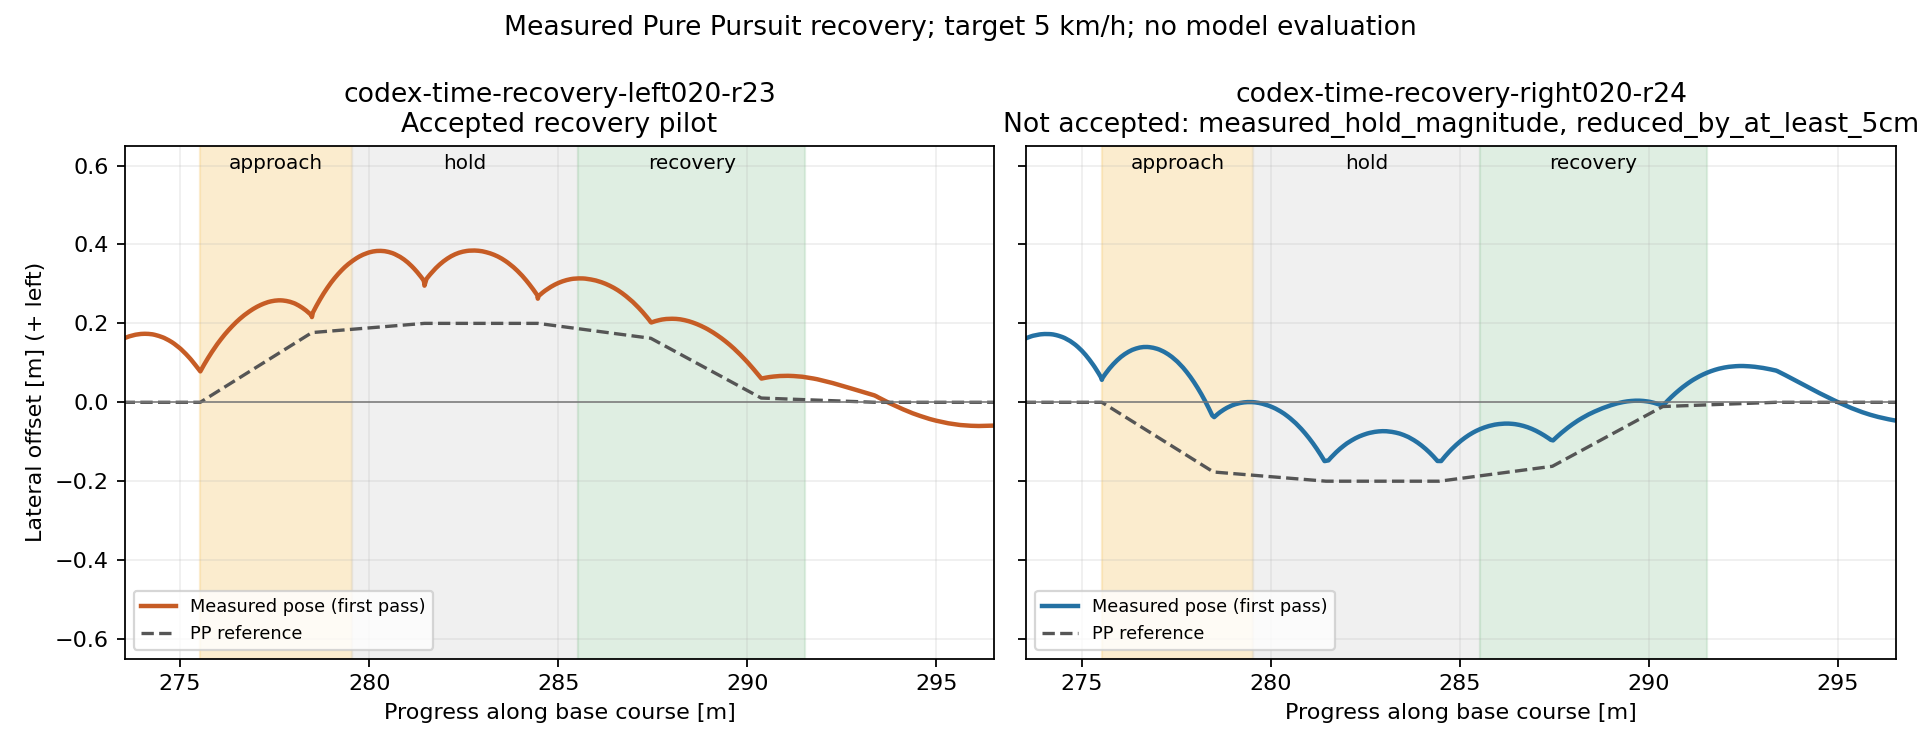
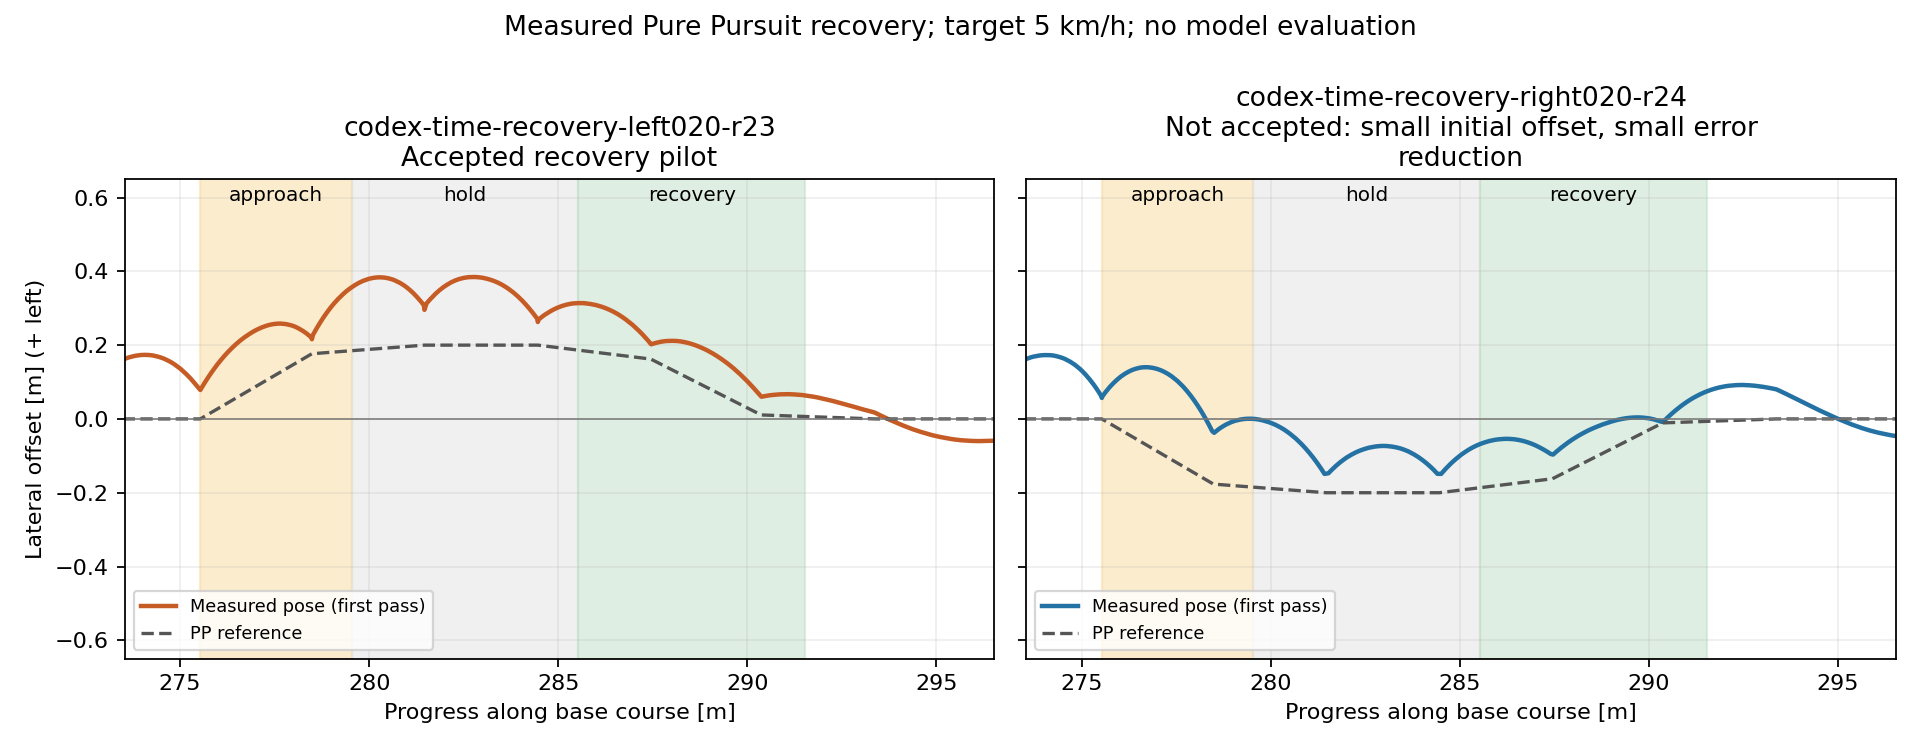
Distinguish curve perturbations from common baseline projection offsets

diff --git a/docs/evidence/time_recovery_batches_20260914/compare_curves_to_nominal.py b/docs/evidence/time_recovery_batches_20260914/compare_curves_to_nominal.py
@@ -1,0 +1,51 @@
+"""Post hoc curve comparison in native WSL; keeps the original pilot gates.
+
+All offsets and progress are in metres. This compares unique measured pose
+captures at common baseline progress and never extrapolates a nominal trace.
+"""
+import argparse
+from pathlib import Path
+import json,numpy as np,hashlib
+base=Path('/home/thistle/e2e_autonomous');a=base/'runs/time_recovery_batches_20260914'
+parser=argparse.ArgumentParser(description=__doc__)
+parser.add_argument('--pair',type=int,choices=(2,3),default=2)
+args=parser.parse_args()
+run_names=(('codex-time-recovery-left020-r23','codex-time-recovery-right020-r24') if args.pair==2 else
+           ('codex-time-recovery-left040-r25','codex-time-recovery-right040-r26'))
+output_name='curve020_nominal_comparison.json' if args.pair==2 else 'curve040_nominal_comparison.json'
+def trace(run: Path) -> tuple[dict, list[dict], np.ndarray, np.ndarray]:
+ manifest=json.loads((run/'transfer_manifest.json').read_text())
+ for name in ('reference.json','control.jsonl'):
+  content=(run/name).read_bytes()
+  assert len(content)==manifest[name]['bytes'] and hashlib.sha256(content).hexdigest()==manifest[name]['sha256']
+ ref=json.loads((run/'reference.json').read_text())
+ rows=[json.loads(l) for l in (run/'control.jsonl').read_text().splitlines()]
+ rows=[r for r in rows if r['reason']=='RECOVERY_TEACHER_TRACKING' and r['projection'] and 273.5330395126295<=r['projection']['s_m']<296.5330395126295]
+ s=np.asarray([r['projection']['s_m'] for r in rows]);v=np.asarray([r['projection']['offset_m'] for r in rows]);assert len(s)>100 and (np.diff(s)>=0).all()
+ stamps=np.asarray([r['current_pose']['stamp_ns'] for r in rows]);assert (np.diff(stamps)>=0).all()
+ for i in np.where(np.diff(stamps)==0)[0]:
+  assert v[i]==v[i+1] and rows[i]['current_pose']==rows[i+1]['current_pose']
+ _,keep=np.unique(stamps,return_index=True);rows=[rows[i] for i in keep];s=s[keep];v=v[keep]
+ return ref,rows,s,v
+nominal=[]
+for n in ('codex-time-recovery-right020-r19','codex-time-recovery-left020-r20'):
+ run=base/'raw/time_recovery_collection_20260913'/n
+ ref,rows,s,v=trace(run);assert all(r['phase']=='baseline' for r in rows) and (np.diff(s)>0).all()
+ nominal.append((n,ref,s,v))
+records=[]
+for n in run_names:
+ run=base/'raw/time_recovery_batches_20260914'/n
+ ref,rows,s,v=trace(run)
+ for _,old,_,_ in nominal:np.testing.assert_array_equal(ref['baseline_xy_m'],old['baseline_xy_m'])
+ by_phase={}
+ for phase in ('hold','recovery','after'):
+  mask=np.asarray([r['phase']==phase if phase!='after' else r['projection']['s_m']>=291.5330395126295 for r in rows])
+  mask &= (s>=max(x[2][0] for x in nominal)) & (s<=min(x[2][-1] for x in nominal))
+  ss=s[mask];vv=v[mask]
+  assert len(ss)>0 and all(old_s[0]<=ss.min() and ss.max()<=old_s[-1] for _,_,old_s,_ in nominal)
+  matched=np.mean([np.interp(ss,old_s,old_v) for _,_,old_s,old_v in nominal],axis=0)
+  delta=vv-matched
+  by_phase[phase]={'samples':len(ss),'matched_s_range_m':[float(ss.min()),float(ss.max())],'raw_offset_median_m':float(np.median(vv)),'nominal_matched_offset_median_m':float(np.median(matched)),'delta_from_nominal_median_m':float(np.median(delta)),'delta_from_nominal_max_absolute_m':float(np.abs(delta).max())}
+ records.append({'run_id':n,'requested_offset_m':ref['signed_offset_m'],'phase_metrics':by_phase})
+out={'scope':'POST_HOC_DIAGNOSTIC_ONLY_ORIGINAL_ACCEPTANCE_GATES_UNCHANGED','nominal_runs':[n for n,_,_,_ in nominal],'method':'Deduplicate identical capture poses, then linear interpolation of nominal measured lateral offset at matching baseline progress; average of two unperturbed passes; common progress range only, no extrapolation','note':'Separates shared tracking/projection offset from added perturbation; does not identify their individual causes or validate a model. Not a substitute acceptance metric.','records':records}
+(a/output_name).write_text(json.dumps(out,indent=2));print(json.dumps(out,indent=2))

diff --git a/docs/time_recovery_batches_20260914.md b/docs/time_recovery_batches_20260914.md
@@ -176,3 +176,20 @@ AWSIM側を移動済み案内へ置換後、空きは20.99GiB。
 判定と原本照合の証拠は第1組と同じprefix形式で `pair02_20260914_*` に保存した。
 地図と前方監視は `pair02_20260914_measured_margin.json`、比較対象の旧通常走行は
 `curve_baseline_margin_20260914.json`。同じ不成立条件の無目的な追加収集は行わない。
+
+補助診断として、旧r19/r20の同一右カーブ通常走行を、共通の基準sで補間して比較した。
+実測holdの通常走行からの変化は左+21.94cm/右-22.04cm、復帰後の通常走行との差は
+両側とも最大約3.2cm。右20cmにも意図した軌跡変化の情報がある。
+上表の-8.53cmは基準折線に対する絶対位置であり、通常走行に対する変化量ではない。
+両者を混同してデータ破損・車両が寄らなかったと判断しない。
+基準折線の頂点付近では、別のposeでもprojectionのsが同じになる場合を観測した。
+比較では同一capture poseの重複だけを除き、通常走行側はsの単調増加を確認した。
+約5mの復帰後窓のうち双方で記録された共通範囲のみ使用し、外挿していない。
+これは収集後の補助診断であり、事前の採用基準やprimary区分は変更していない。
+共通する追従誤差と投影の影響はこの比較だけでは個別に分離できない。
+証拠は `curve020_nominal_comparison.json`、再現手順は以下。
+
+```bash
+tools/with_wsl_training_lock.sh env PYTHONPATH=src .venv/bin/python \
+  docs/evidence/time_recovery_batches_20260914/compare_curves_to_nominal.py --pair 2
+```
